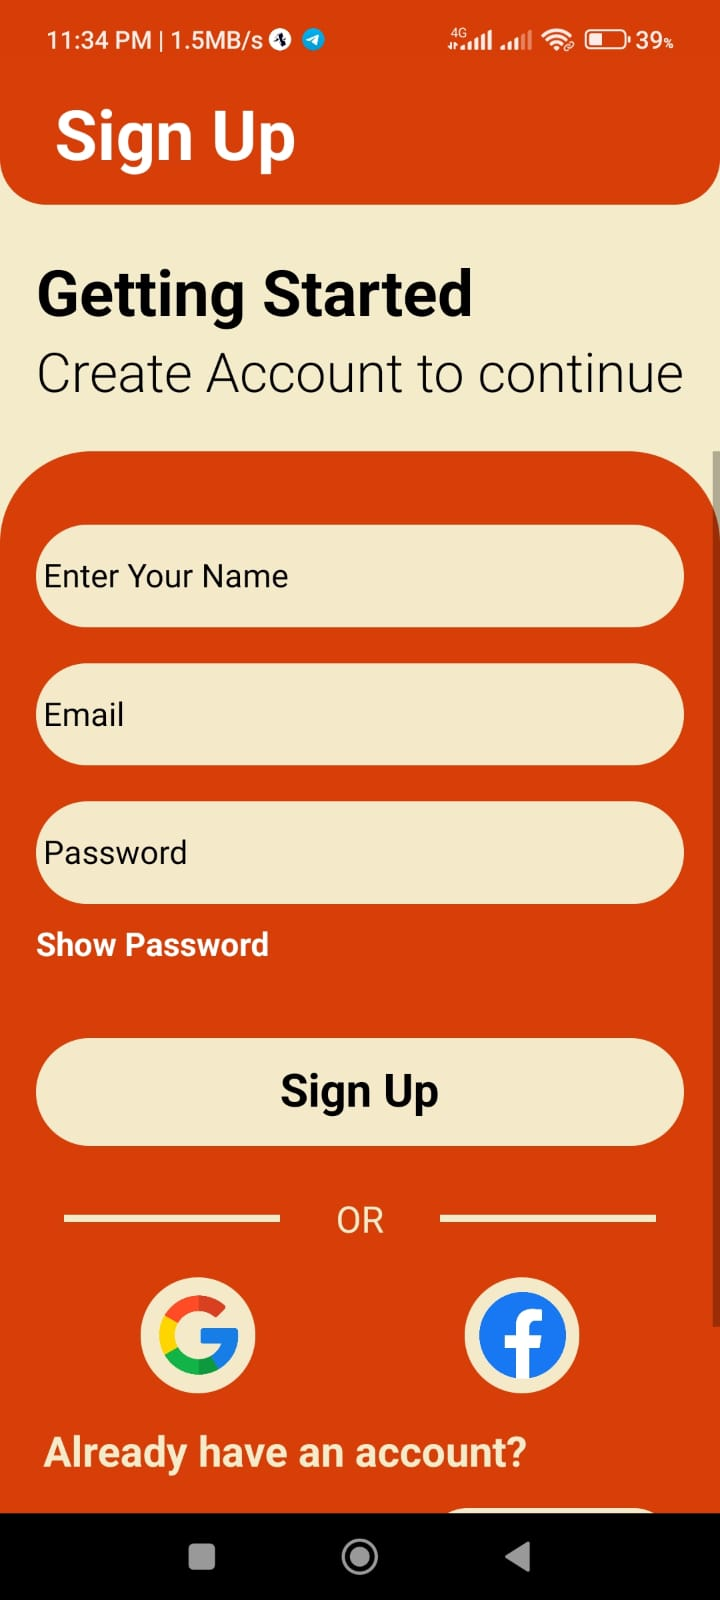
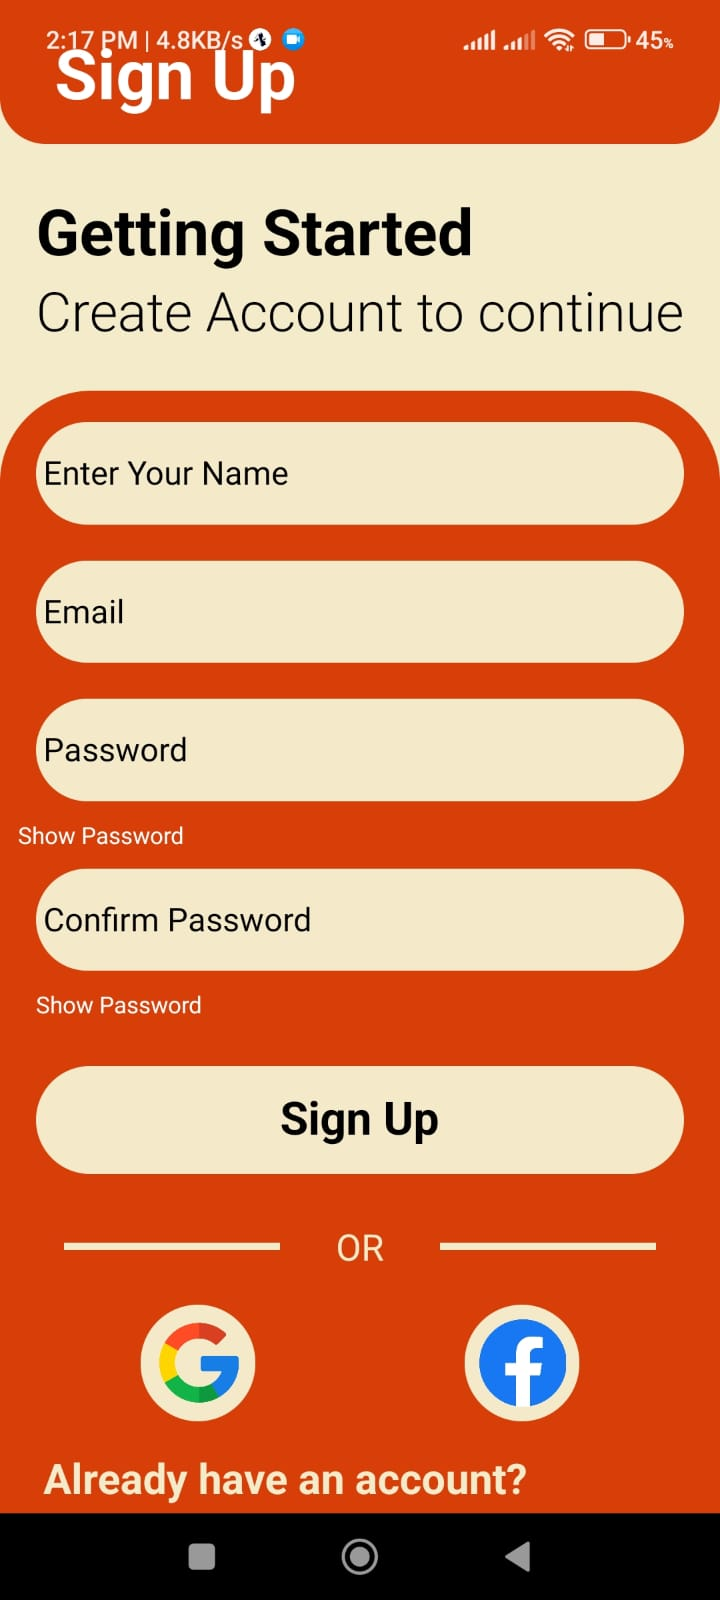
Added Signup and Profile screens

diff --git a/week2-screens/SignUp.js b/week2-screens/SignUp.js
@@ -8,15 +8,15 @@ import {
   Image,
   ScrollView,
 } from "react-native";
-import React, { useState, useEffect } from "react";
+import React, { useState } from "react";
 import { colors, parameters } from "../global/styles";
 import { useNavigation } from "@react-navigation/native";
-import { removeItem } from "../global/AysyncStorage";
 import Button from "../Components/Button";
 import Header from "../Components/Header";
 import { Dimensions } from "react-native";
 import { Formik } from "formik";
 import * as Yup from "yup";
+import AsyncStorage from '@react-native-async-storage/async-storage';
 
 // Get screen dimensions
 const { width, height } = Dimensions.get("window");
@@ -24,27 +24,48 @@ const { width, height } = Dimensions.get("window");
 const SignUp = () => {
   const navigation = useNavigation();
   const [secureTextEntry, setSecureTextEntry] = useState(true);
+  const [secureTextEntryConfirm, setSecureTextEntryConfirm] = useState(true);
 
   // Toggle password visibility
   const toggleSecureEntry = () => {
     setSecureTextEntry(!secureTextEntry);
   };
 
+  // Toggle Confirm password visibility
+  const toggleSecureEntryConfirm = () => {
+    setSecureTextEntryConfirm(!secureTextEntryConfirm);
+  };
+
   // Validation schema for form inputs
   const validationSchema = Yup.object().shape({
-    username: Yup.string().required("Username is required"),
+    username: Yup.string()
+      .required("Username is required")
+      .min(6, "Username must be at least 6 characters"),
     email: Yup.string().email("Invalid email").required("Email is required"),
-    password: Yup.string().min(6, "Password must be at least 6 characters").required("Password is required"),
+    password: Yup.string()
+      .min(6, "Password must be at least 6 characters")
+      .required("Password is required"),
+    confirmPassword: Yup.string()
+      .oneOf([Yup.ref("password"), null], "Passwords must match")
+      .required("Password is required"),
   });
+
+  // Function to store user data in AsyncStorage
+  const storeUserData = async (values) => {
+    try {
+      await AsyncStorage.setItem('userData', JSON.stringify(values));
+      // Navigate to Profile on successful sign up
+      navigation.navigate("Profile");
+    } catch (error) {
+      console.error("Error storing user data", error);
+    }
+  };
 
   return (
     <Formik
-      initialValues={{ username: "", email: "", password: "" }}
+      initialValues={{ username: "", email: "", password: "", confirmPassword: "" }}
       validationSchema={validationSchema}
-      onSubmit={(values) => {
-        // Navigate to Home on successful sign up
-        navigation.navigate("Home");
-      }}
+      onSubmit={storeUserData} // Call storeUserData on form submission
     >
       {({
         handleChange,
@@ -66,6 +87,7 @@ const SignUp = () => {
               <View style={styles.TextInputView}>
                 {/* Username Input */}
                 <TextInput
+                  name="username"
                   placeholder="Enter Your Name"
                   placeholderTextColor={"black"}
                   style={styles.inputField}
@@ -78,6 +100,7 @@ const SignUp = () => {
                 )}
                 {/* Email Input */}
                 <TextInput
+                  name="email"
                   placeholder="Email"
                   placeholderTextColor={"#000"}
                   style={styles.inputField}
@@ -91,6 +114,7 @@ const SignUp = () => {
                 )}
                 {/* Password Input */}
                 <TextInput
+                  name="password"
                   placeholder="Password"
                   placeholderTextColor={"#000"}
                   style={styles.inputField}
@@ -102,17 +126,43 @@ const SignUp = () => {
                 {touched.password && errors.password && (
                   <Text style={styles.errorText}>{errors.password}</Text>
                 )}
+                <View style={styles.passwordTextView}>
+                  {/* Toggle password visibility */}
+                  <TouchableOpacity onPress={toggleSecureEntry}>
+                    <Text style={styles.passwordText}>
+                      {secureTextEntry ? "Show Password" : "Hide Password"}
+                    </Text>
+                  </TouchableOpacity>
+                </View>
+                {/* Confirm Password Input */}
+                <TextInput
+                  name="confirmPassword"
+                  placeholder="Confirm Password"
+                  placeholderTextColor={"#000"}
+                  style={styles.inputField}
+                  secureTextEntry={secureTextEntryConfirm}
+                  value={values.confirmPassword}
+                  onChangeText={handleChange("confirmPassword")}
+                  onBlur={handleBlur("confirmPassword")}
+                />
+                {touched.confirmPassword && errors.confirmPassword && (
+                  <Text style={styles.errorText}>{errors.confirmPassword}</Text>
+                )}
               </View>
               <View style={styles.passwordTextView}>
                 {/* Toggle password visibility */}
-                <TouchableOpacity onPress={toggleSecureEntry}>
+                <TouchableOpacity onPress={toggleSecureEntryConfirm}>
                   <Text style={styles.passwordText}>
-                    {secureTextEntry ? "Show Password" : "Hide Password"}
+                    {secureTextEntryConfirm ? "Show Password" : "Hide Password"}
                   </Text>
                 </TouchableOpacity>
               </View>
               {/* Sign Up Button */}
-              <Button title={"Sign Up"} onPress={handleSubmit} style={parameters.styledButton} />
+              <Button
+                title={"Sign Up"}
+                onPress={handleSubmit}
+                style={[parameters.styledButton, { marginTop: 25 }]}
+              />
               <View style={styles.OrContainer}>
                 <View style={styles.line}></View>
                 <Text style={styles.OR}>OR</Text>
@@ -205,11 +255,10 @@ const styles = StyleSheet.create({
     width: width * 0.9,
     justifyContent: "space-between",
     flexDirection: "row",
-    marginBottom: height * 0.05,
   },
   passwordText: {
-    fontWeight: "bold",
     color: "white",
+    fontSize:10
   },
   OrContainer: {
     height: height * 0.04,
@@ -279,7 +328,7 @@ const styles = StyleSheet.create({
     color: colors.black,
   },
   errorText: {
-    color: "red",
+    color: "white",
     fontSize: 12,
     marginLeft: 10,
   },

diff --git a/week2-screens/Profile.js b/week2-screens/Profile.js
@@ -1,0 +1,130 @@
+import { StyleSheet, Text, TouchableOpacity, View, Dimensions } from "react-native";
+import React, { useEffect, useState } from "react";
+import { colors } from "../global/styles";
+import FontAwesome from "@expo/vector-icons/FontAwesome";
+import SimpleLineIcons from "@expo/vector-icons/SimpleLineIcons";
+import AsyncStorage from '@react-native-async-storage/async-storage';
+import { useNavigation } from "@react-navigation/native";
+import { removeItem } from "../global/AysyncStorage";
+
+// Get screen dimensions
+const { width, height } = Dimensions.get("window");
+
+const Profile = () => {
+  const [userData, setUserData] = useState({ username: '', email: '' });
+  const navigation = useNavigation();
+
+  // Fetch user data from AsyncStorage
+  useEffect(() => {
+    const fetchUserData = async () => {
+      try {
+        const data = await AsyncStorage.getItem('userData');
+        if (data) {
+          setUserData(JSON.parse(data));
+        }
+      } catch (error) {
+        console.error("Error fetching user data", error);
+      }
+    };
+    fetchUserData();
+  }, []);
+
+  // Logout function to clear AsyncStorage and navigate to Login screen
+  const handleLogout = async () => {
+    try {
+      await AsyncStorage.removeItem("userData");
+      // Remove 'onboarded' item from storage
+      await removeItem("onboarded");
+      navigation.navigate("Login");
+    } catch (error) {
+      console.error("Error during logout", error);
+    }
+
+  };
+
+  return (
+    <View style={styles.container}>
+      <View style={styles.header}>
+        <Text style={styles.headerText}>Profile</Text>
+      </View>
+      <View style={styles.mainText}>
+        <FontAwesome name="user-circle-o" size={120} color="#d73d07" />
+        {/* Display user name and email from state */}
+        <Text style={styles.name}>{userData.username}</Text>
+        <Text style={styles.email}>{userData.email}</Text>
+      </View>
+      <View style={styles.logoutContainer}>
+        <TouchableOpacity style={styles.logout} onPress={handleLogout}>
+          <SimpleLineIcons
+            name="logout"
+            size={28}
+            color="#f4ebca"
+            style={styles.icon}
+          />
+          <Text style={styles.logoutText}>Logout</Text>
+        </TouchableOpacity>
+      </View>
+    </View>
+  );
+};
+
+export default Profile;
+
+// Styles for the Profile screen
+const styles = StyleSheet.create({
+  container: {
+    flex: 1,
+    backgroundColor: colors.logoBackground,
+  },
+  header: {
+    backgroundColor: colors.logoColor,
+    height: height * 0.08,
+    justifyContent: "center",
+    borderBottomLeftRadius: 15,
+    borderBottomRightRadius: 15,
+  },
+  headerText: {
+    fontSize: height * 0.03,
+    fontWeight: "bold",
+    color: colors.logoBackground,
+    marginLeft: width * 0.05,
+  },
+  mainText: {
+    justifyContent: "center",
+    alignItems: "center",
+    marginTop: height * 0.05,
+  },
+  name: {
+    fontSize: height * 0.025,
+    fontWeight: "bold",
+    color: "#000",
+    textDecorationLine: "underline",
+    marginTop: height * 0.01,
+  },
+  email: {
+    fontSize: height * 0.02,
+    fontWeight: "600",
+    marginTop: height * 0.005,
+  },
+  logoutContainer: {
+    marginTop: height * 0.05,
+  },
+  logout: {
+    backgroundColor: colors.logoColor,
+    width: width * 0.95,
+    height: height * 0.07,
+    borderRadius: 10,
+    flexDirection: "row",
+    alignSelf: "center",
+    alignItems: 'center'
+  },
+  logoutText: {
+    fontSize: height * 0.03,
+    fontWeight: "bold",
+    marginLeft: width * 0.05,
+    color: colors.logoBackground
+  },
+  icon: {
+    marginLeft: width * 0.05
+  }
+});

diff --git a/screens/Login.js b/screens/Login.js
@@ -3,20 +3,19 @@ import {
   Text,
   TouchableOpacity,
   View,
-  StatusBar,
   TextInput,
   Image,
-  ScrollView
+  ScrollView,
+  Dimensions,
 } from "react-native";
-import React, { useState, useEffect } from "react";
+import React, { useState } from "react";
 import { colors, parameters } from "../global/styles";
 import { useNavigation } from "@react-navigation/native";
-import { removeItem } from "../global/AysyncStorage";
 import Button from "../Components/Button";
 import Header from "../Components/Header";
-import { Dimensions } from "react-native";
 import { Formik } from "formik";
 import * as Yup from "yup";
+import AsyncStorage from '@react-native-async-storage/async-storage';
 
 // Get screen dimensions
 const { width, height } = Dimensions.get("window");
@@ -36,14 +35,31 @@ const Login = () => {
     password: Yup.string().min(6, "Password must be at least 6 characters").required("Password is required"),
   });
 
+  // Function to handle login
+  const handleLogin = async (values) => {
+    try {
+      const storedData = await AsyncStorage.getItem('userData');
+      if (storedData) {
+        const { email, password } = JSON.parse(storedData);
+        if (email === values.email && password === values.password) {
+          // Navigate to Profile on successful login
+          navigation.navigate("Profile");
+        } else {
+          alert("Invalid email or password");
+        }
+      } else {
+        alert("No user data found. Please sign up first.");
+      }
+    } catch (error) {
+      console.error("Error during login", error);
+    }
+  };
+
   return (
     <Formik
       initialValues={{ email: "", password: "" }}
       validationSchema={validationSchema}
-      onSubmit={(values) => {
-        // Navigate to Home on successful login
-        navigation.navigate("Home");
-      }}
+      onSubmit={handleLogin} // Call handleLogin on form submission
     >
       {({
         handleChange,

diff --git a/screens/Navigation/StackNavigator.js b/screens/Navigation/StackNavigator.js
@@ -3,10 +3,10 @@ import React, { useEffect, useState } from "react";
 import { createStackNavigator } from "@react-navigation/stack";
 import Onboarding from "../Onboarding";
 import Login from "../Login";
-import SignUp from "../SignUp";
-import Home from "../Home";
-import AsyncStorage from '@react-native-async-storage/async-storage';
+import AsyncStorage from "@react-native-async-storage/async-storage";
 import Forgotpass from "../Forgotpass";
+import Profile from "../../week2-screens/Profile";
+import SignUp from "../../week2-screens/SignUp";
 
 const StackNavigator = () => {
   const Stack = createStackNavigator();
@@ -16,7 +16,7 @@ const StackNavigator = () => {
     const checkIfAlreadyOnboarded = async () => {
       try {
         let onboarded = await AsyncStorage.getItem("onboarded");
-        if (onboarded === '1') {
+        if (onboarded === "1") {
           // hide onboarding
           setShowOnboarding(false);
         } else {
@@ -44,7 +44,7 @@ const StackNavigator = () => {
       <Stack.Screen name="Login" component={Login} />
       <Stack.Screen name="ForgotPass" component={Forgotpass} />
       <Stack.Screen name="SignUp" component={SignUp} />
-      <Stack.Screen name="Home" component={Home} />
+      <Stack.Screen name="Profile" component={Profile} />
     </Stack.Navigator>
   );
 };
